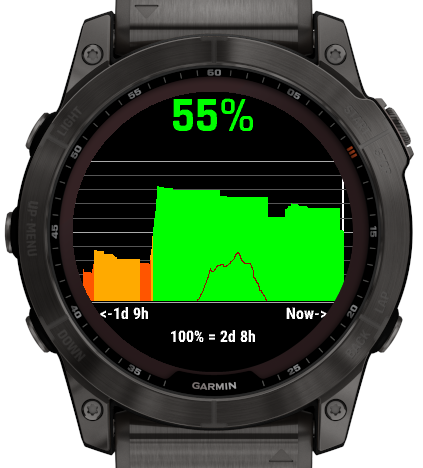
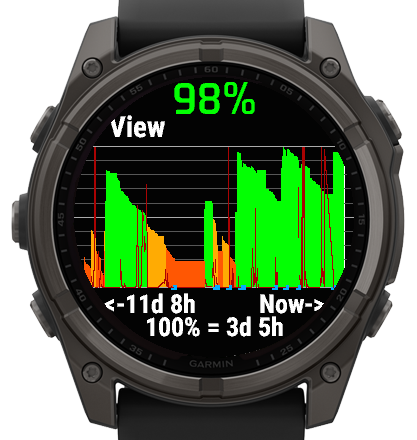
Stop slope calculation while in graph views

diff --git a/README.md b/README.md
@@ -39,6 +39,8 @@ Some code are based on the work of JuliensLab (https://github.com/JuliensLab/Gar
 If you would like to translate the language file in your own language, contact me and we'll work on it.
  
 ## Changelog
+V1.4.4 As data accumulates, calculating the slopes and drawing the graph can cause a "running for too long" crash. Now in Graph views, the slope aren't updated until the view is changed to a text view.
+
 V1.4.3 Fixed a potential crash when calculating the history array size
 
 V1.4.2 Added tge following
